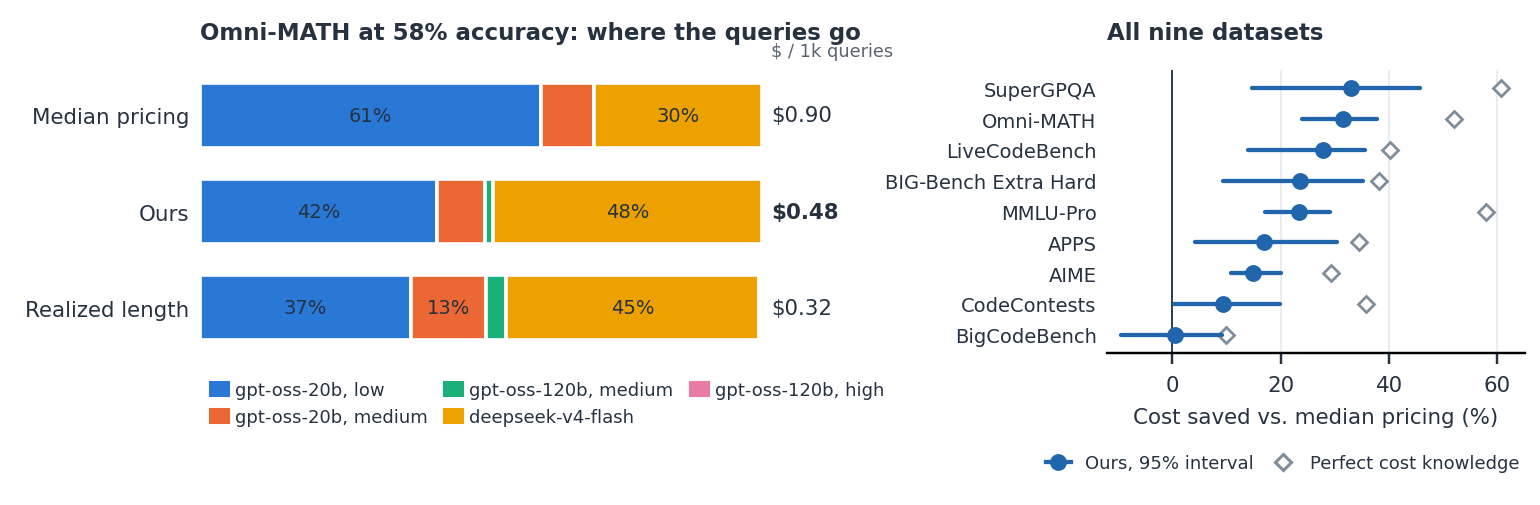
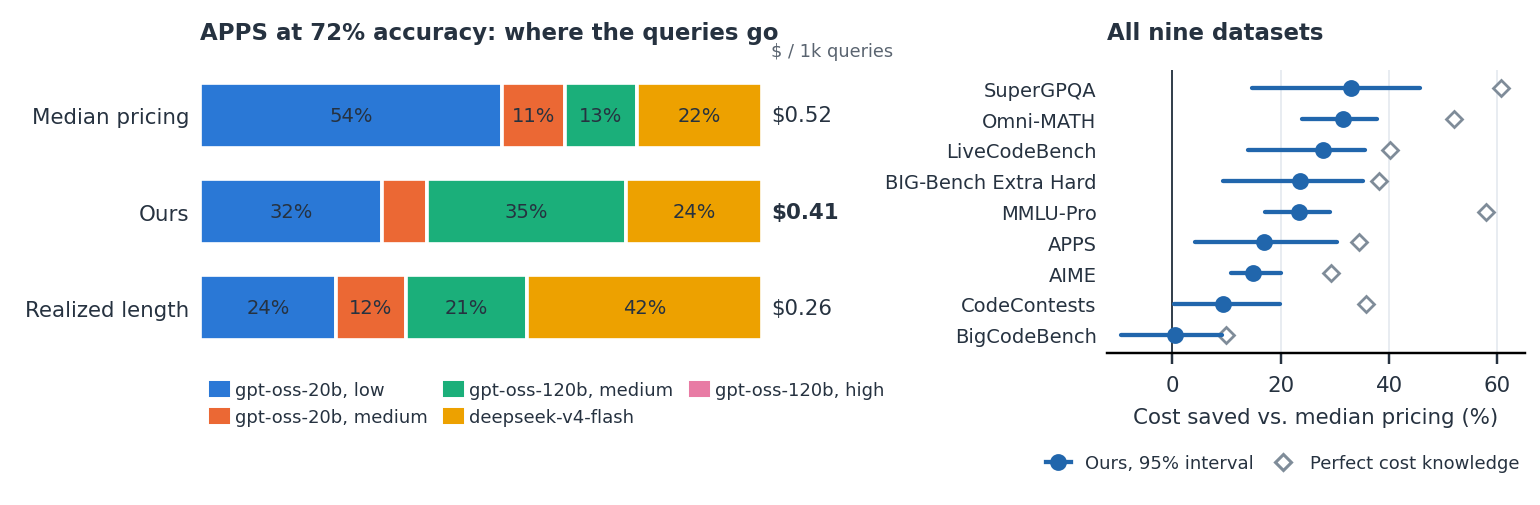
Figure 1: route shares on APPS instead of Omni-MATH (user request); caption change proposed, not applied

diff --git a/paper_tmlr/make_hero_fig.py b/paper_tmlr/make_hero_fig.py
@@ -1,16 +1,17 @@
-"""Figure 1 (hero + breadth). Left: where Omni-MATH queries go at one matched accuracy (the middle of the shared accuracy band, paper
+"""Figure 1 (hero + breadth). Left: where APPS queries go at one matched accuracy (the middle of the shared accuracy band, paper
 split): share of test queries per route under median-length pricing, our cost probes and realized length, with the spend per 1,000
 queries (analysis/cost_headroom/route_shares_pinned.json, as fig:shares). Right: cost saved by ours relative to median pricing on all
 nine datasets, mean over ten training sets with 95% intervals, and the headroom (draws_summary_pinned.json, as the tables).
-Usage: python make_hero_fig.py
+Usage: python make_hero_fig.py [POOL]  (default APPS)
 """
 import json
 from pathlib import Path
 import matplotlib
 matplotlib.use("Agg")
 import matplotlib.pyplot as plt
+import sys
 
-HERE = Path(__file__).resolve().parent
+HERE = Path(__file__).resolve().parent; POOL = sys.argv[1] if len(sys.argv) > 1 else "APPS"
 S = json.load(open(HERE.parent / "analysis/cost_headroom/route_shares_pinned.json"))
 MAIN = json.load(open(HERE.parent / "analysis/cost_headroom/draws_summary_pinned.json"))["draws"]
 INK, MUTED, GRID, SURF = "#263240", "#5A6470", "#E6EBF0", "#FFFFFF"; OURS, HEAD = "#2166AC", "#7F8C99"
@@ -24,8 +25,8 @@ plt.rcParams.update({"font.family": "DejaVu Sans", "font.size": 7, "text.color":
 fig, (a1, sp_, a2) = plt.subplots(1, 3, figsize=(7.0, 2.3), gridspec_kw=dict(width_ratios=[1.25, .36, .8], wspace=.08, left=.13, right=.99, bottom=.3, top=.86))
 sp_.axis("off")
 
-# left: route shares on Omni-MATH
-o = S["Omni"]; sl = o["slots"]
+# left: route shares on one dataset
+o = S[POOL]; sl = o["slots"]
 for y, (a, lab) in enumerate(ARMS):
     left = 0.
     for key, _, col in ROUTES:
@@ -41,7 +42,7 @@ a1.set_yticks(range(3)); a1.set_yticklabels([l for _, l in ARMS], fontsize=7); a
 a1.set_xlim(0, 1.16); a1.set_xticks([]); a1.tick_params(length=0)
 for sp in a1.spines.values():
     sp.set_visible(False)
-a1.set_title(f"Omni-MATH at {o['accuracy'] * 100:.0f}% accuracy: where the queries go", loc="left", fontsize=7.5, fontweight="bold", pad=10)
+a1.set_title(f"{NAMES[POOL]} at {o['accuracy'] * 100:.0f}% accuracy: where the queries go", loc="left", fontsize=7.5, fontweight="bold", pad=10)
 hs = [plt.Rectangle((0, 0), 1, 1, color=c) for _, _, c in ROUTES]
 a1.legend(hs, [l for _, l, _ in ROUTES], ncol=3, frameon=False, fontsize=5.9, loc="upper left", bbox_to_anchor=(-.01, -.04), handlelength=1.0,
           columnspacing=.9, handletextpad=.4)
